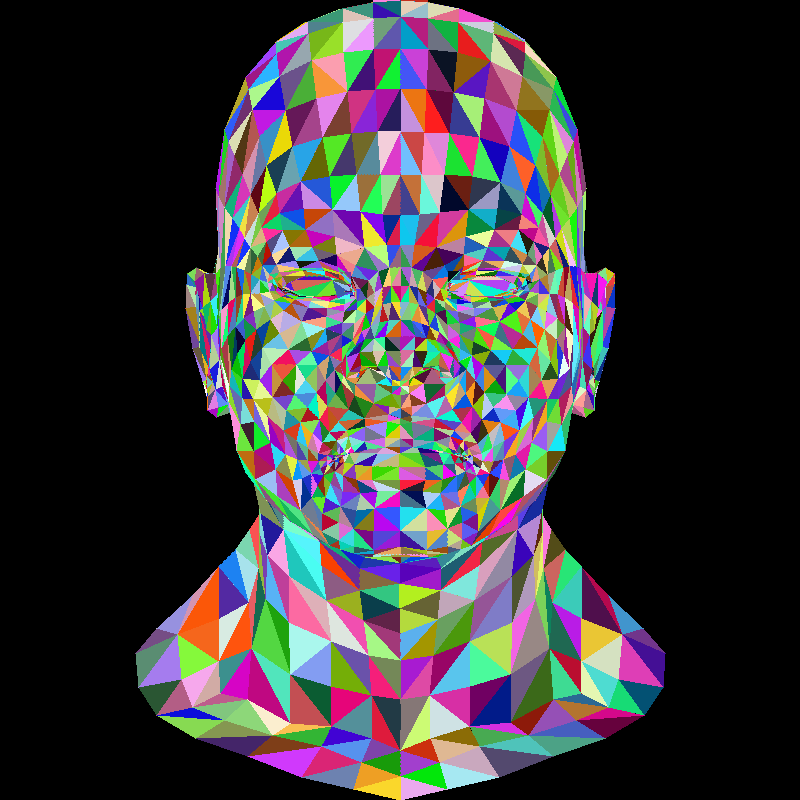
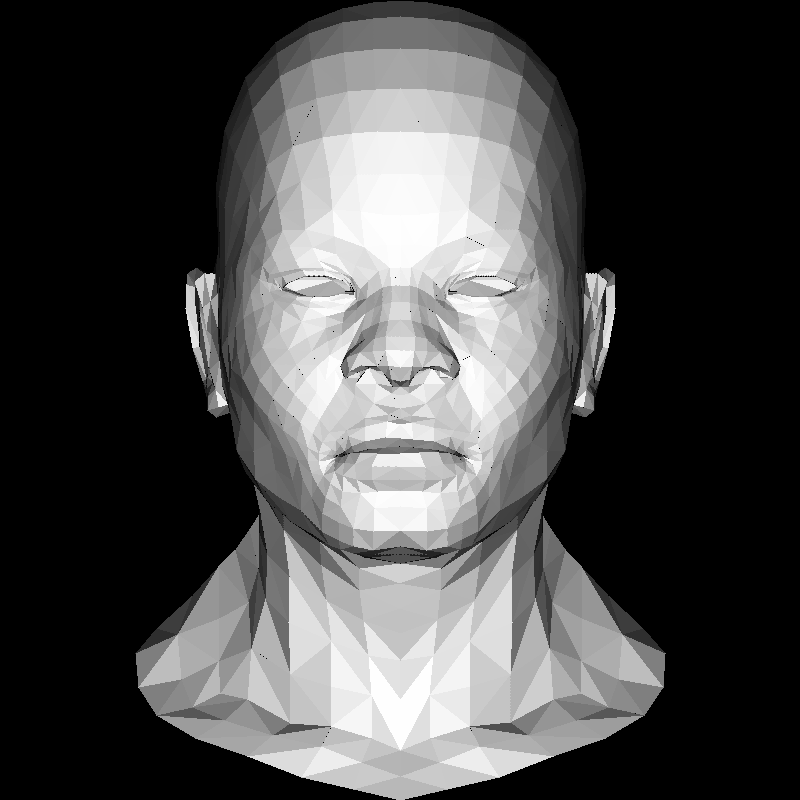
flat shading

diff --git a/TinyRenderer.java b/TinyRenderer.java
@@ -4,7 +4,6 @@ import java.awt.Image;
 import java.awt.image.BufferedImage;
 
 import java.util.ArrayList;
-import java.util.Random;
 
 import java.io.*;
 import javax.imageio.ImageIO;
@@ -21,10 +20,9 @@ public class TinyRenderer extends JPanel {
     public static double[][] zbuffer = null;        // z-buffer array
 
     // compute the matrix product A*B
-    public static double[][] matrix_multiply(double[][] A, double[][] B) {
+    public static double[][] matrix_product(double[][] A, double[][] B) {
         if (A.length==0 || A[0].length != B.length)
             throw new IllegalStateException("invalid dimensions");
-
         double[][] matrix = new double[A.length][B[0].length];
         for (int i=0; i<A.length; i++) {
             for (int j=0; j<B[0].length; j++) {
@@ -40,7 +38,6 @@ public class TinyRenderer extends JPanel {
     // transpose the matrix
     public static double[][] matrix_transpose(double[][] matrix) {
         double[][] transpose = new double[matrix[0].length][matrix.length];
-
         for (int i = 0; i < matrix.length; i++)
             for (int j = 0; j < matrix[i].length; j++)
                 transpose[j][i] = matrix[i][j];
@@ -52,26 +49,63 @@ public class TinyRenderer extends JPanel {
         if (m[0].length != m.length || m.length != 3)
             throw new IllegalStateException("invalid dimensions");
         double[][] inverse = new double[m.length][m.length];
-        double invdet = 1. / (m[0][0]*(m[1][1]*m[2][2] - m[2][1]*m[1][2]) - m[0][1]*(m[1][0]*m[2][2] - m[1][2]*m[2][0]) + m[0][2]*(m[1][0]*m[2][1] - m[1][1]*m[2][0]));
-        inverse[0][0] = (m[1][1]*m[2][2] - m[2][1]*m[1][2])*invdet;
-        inverse[0][1] = (m[0][2]*m[2][1] - m[0][1]*m[2][2])*invdet;
-        inverse[0][2] = (m[0][1]*m[1][2] - m[0][2]*m[1][1])*invdet;
-        inverse[1][0] = (m[1][2]*m[2][0] - m[1][0]*m[2][2])*invdet;
-        inverse[1][1] = (m[0][0]*m[2][2] - m[0][2]*m[2][0])*invdet;
-        inverse[1][2] = (m[1][0]*m[0][2] - m[0][0]*m[1][2])*invdet;
-        inverse[2][0] = (m[1][0]*m[2][1] - m[2][0]*m[1][1])*invdet;
-        inverse[2][1] = (m[2][0]*m[0][1] - m[0][0]*m[2][1])*invdet;
-        inverse[2][2] = (m[0][0]*m[1][1] - m[1][0]*m[0][1])*invdet;
+        double det = m[0][0]*(m[1][1]*m[2][2] - m[2][1]*m[1][2]) - m[0][1]*(m[1][0]*m[2][2] - m[1][2]*m[2][0]) + m[0][2]*(m[1][0]*m[2][1] - m[1][1]*m[2][0]);
+        if (Math.abs(det)<1e-6)
+            throw new IllegalStateException("non-invertible matrix");
+        inverse[0][0] = (m[1][1]*m[2][2] - m[2][1]*m[1][2])/det;
+        inverse[0][1] = (m[0][2]*m[2][1] - m[0][1]*m[2][2])/det;
+        inverse[0][2] = (m[0][1]*m[1][2] - m[0][2]*m[1][1])/det;
+        inverse[1][0] = (m[1][2]*m[2][0] - m[1][0]*m[2][2])/det;
+        inverse[1][1] = (m[0][0]*m[2][2] - m[0][2]*m[2][0])/det;
+        inverse[1][2] = (m[1][0]*m[0][2] - m[0][0]*m[1][2])/det;
+        inverse[2][0] = (m[1][0]*m[2][1] - m[2][0]*m[1][1])/det;
+        inverse[2][1] = (m[2][0]*m[0][1] - m[0][0]*m[2][1])/det;
+        inverse[2][2] = (m[0][0]*m[1][1] - m[1][0]*m[0][1])/det;
         return inverse;
+    }
+
+    // dot product between two vectors; N.B. works for dimension 3 vectors only
+    public static double dot_product(double[] v1, double[] v2) {
+        if (v1.length != v2.length || v1.length != 3)
+            throw new IllegalStateException("invalid dimensions");
+        return v1[0]*v2[0]+v1[1]*v2[1]+v1[2]*v2[2];
+    }
+
+    // cross product between two vectors
+    public static double[] cross_product(double[] v1, double[] v2) {
+        if (v1.length != v2.length || v1.length != 3)
+            throw new IllegalStateException("invalid dimensions");
+        double[] cross = new double[3];
+        cross[0] = v1[1]*v2[2] - v1[2]*v2[1];
+        cross[1] = v1[2]*v2[0] - v1[0]*v2[2];
+        cross[2] = v1[0]*v2[1] - v1[1]*v2[0];
+        return cross;
+    }
+
+    // given a triangle, return its normal
+    public static double [] triangle_normal(double[] x, double[] y, double[] z) {
+        if (x.length != y.length || x.length != z.length || x.length != 3)
+            throw new IllegalStateException("invalid dimensions");
+        double[] edge_a = {x[1] - x[0], y[1] - y[0], z[1] - z[0]};
+        double[] edge_b = {x[2] - x[0], y[2] - y[0], z[2] - z[0]};
+        double[] cross = cross_product(edge_a, edge_b);
+        double norm = Math.sqrt(cross[0]*cross[0] + cross[1]*cross[1] + cross[2]*cross[2]);
+        if (norm<1e-6)
+            throw new IllegalStateException("degenerate triangle");
+        cross[0] /= norm;
+        cross[1] /= norm;
+        cross[2] /= norm;
+        return cross;
     }
 
     // given a triangle [(x0,y0), (x1,y1), (x2,y2)], compute barycentric coordinates of the point (x,y) w.r.t the triangle
     public static double[] barycentric_coords(int x0, int y0, int x1, int y1, int x2, int y2, int x, int y) {
         double[][] A = { { x0, x1, x2 }, { y0, y1, y2 }, { 1., 1., 1. } };
         double[][] b = { { x }, { y }, { 1. } };
-        return matrix_transpose(matrix_multiply(matrix_inverse(A), b))[0];
+        return matrix_transpose(matrix_product(matrix_inverse(A), b))[0];
     }
 
+    // well duh
     public void paint(Graphics g) {
         g.drawImage(framebuffer, 0, 0, this);
     }
@@ -116,25 +150,27 @@ public class TinyRenderer extends JPanel {
         }
 
         framebuffer = new BufferedImage(width, height, BufferedImage.TYPE_INT_RGB);
-        zbuffer = new double[width][height]; // initialize the z-buffer
-        for (int i=0; i<width; i++) {
-            for (int j=0; j<height; j++) {
-                zbuffer[i][j] = -1;
+        { // initialize the z-buffer with min possible values
+            zbuffer = new double[width][height];
+            for (int i=0; i<width; i++) {
+                for (int j=0; j<height; j++) {
+                    zbuffer[i][j] = -1.;
+                }
             }
         }
-        Random rand = new Random();
 
         for (int t=0; t<triangles.length/3; t++) { // iterate through all triangles
-            int color = new Color(rand.nextInt(256), rand.nextInt(256), rand.nextInt(256)).getRGB();
+            double[] xw = new double[3]; // triangle in world coordinates
+            double[] yw = new double[3];
+            double[] zw = new double[3];
             int[] x = new int[3]; // triangle in screen coordinates
             int[] y = new int[3];
-            double[] z = new double[3];
             for (int v=0; v<3; v++) {
-                double xw = vertices[triangles[t*3+v]*3+0]; // world coordinates
-                double yw = vertices[triangles[t*3+v]*3+1];
-                z[v]      = vertices[triangles[t*3+v]*3+2];
-                x[v] = (int)( width*(xw+1.)/2.+.5); // world-to-screen transformation
-                y[v] = (int)(height*(1.-yw)/2.+.5); // y is flipped to get a "natural" y orientation (origin in the bottom left corner)
+                xw[v] = vertices[triangles[t*3+v]*3+0]; // world coordinates
+                yw[v] = vertices[triangles[t*3+v]*3+1];
+                zw[v] = vertices[triangles[t*3+v]*3+2];
+                x[v] = (int)( width*(xw[v]+1.)/2.+.5); // world-to-screen transformation
+                y[v] = (int)(height*(1.-yw[v])/2.+.5); // y is flipped to get a "natural" y orientation (origin in the bottom left corner)
             }
 
             int bbminx = width-1; // screen bounding box for the triangle to rasterize
@@ -147,16 +183,21 @@ public class TinyRenderer extends JPanel {
                 bbmaxx = Math.min(width-1,  Math.max(bbmaxx, x[v]));
                 bbmaxy = Math.min(height-1, Math.max(bbmaxy, y[v]));
             }
-            for (int px=bbminx; px<=bbmaxx; px++) { // rasterize the bounding box
-                for (int py=bbminy; py<=bbmaxy; py++) {
-                    double[] coord = barycentric_coords(x[0], y[0], x[1], y[1], x[2], y[2], px, py);
-                    if (coord[0]<0 || coord[1]<0 || coord[2]<0) continue; // discard the point outside the triangle
-                    double pz = coord[0]*z[0] + coord[1]*z[1] + coord[2]*z[2]; // compute the depth of the fragment
-                    if (zbuffer[px][py]>pz) continue; // discard the fragment if it lies behind the z-buffer
-                    zbuffer[px][py] = pz;
-                    framebuffer.setRGB(px, py, color);
+            try { // non-ivertible matrix (can happen if a triangle is degenerate)
+                for (int px=bbminx; px<=bbmaxx; px++) { // rasterize the bounding box
+                    for (int py=bbminy; py<=bbmaxy; py++) {
+                        double[] coord = barycentric_coords(x[0], y[0], x[1], y[1], x[2], y[2], px, py);
+                        if (coord[0]<0. || coord[1]<0. || coord[2]<0.) continue; // discard the point outside the triangle
+                        double pz = coord[0]*zw[0] + coord[1]*zw[1] + coord[2]*zw[2]; // compute the depth of the fragment
+                        if (zbuffer[px][py]>pz) continue; // discard the fragment if it lies behind the z-buffer
+                        zbuffer[px][py] = pz;
+                        double[] normal = triangle_normal(xw, yw, zw);
+                        int intensity = (int)Math.min(255, Math.max(0, 255*dot_product(normal, new double[]{0., 0., 1.}))); // triangle intensity is the (clamped) cosine of the angle between the triangle normal and the view direction
+                        int color = new Color(intensity, intensity, intensity).getRGB();
+                        framebuffer.setRGB(px, py, color);
+                    }
                 }
-            }
+            } catch (IllegalStateException ex) {}
         }
 
         try {
@@ -170,3 +211,4 @@ public class TinyRenderer extends JPanel {
         frame.setVisible(true);
     }
 }
+
